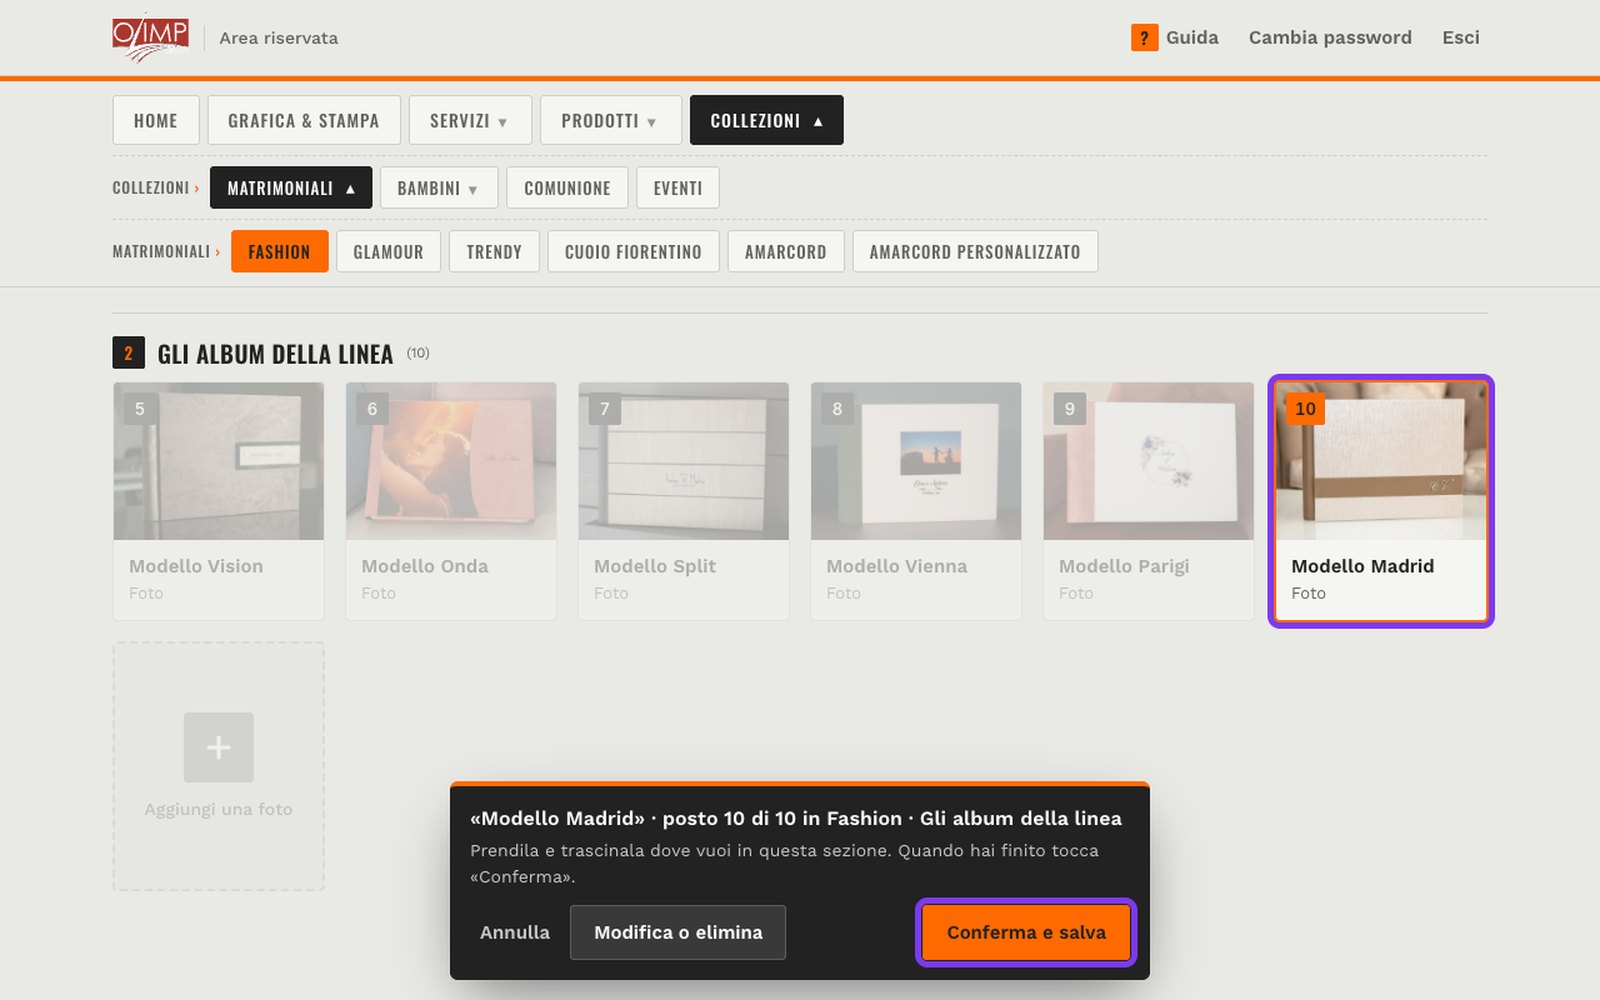
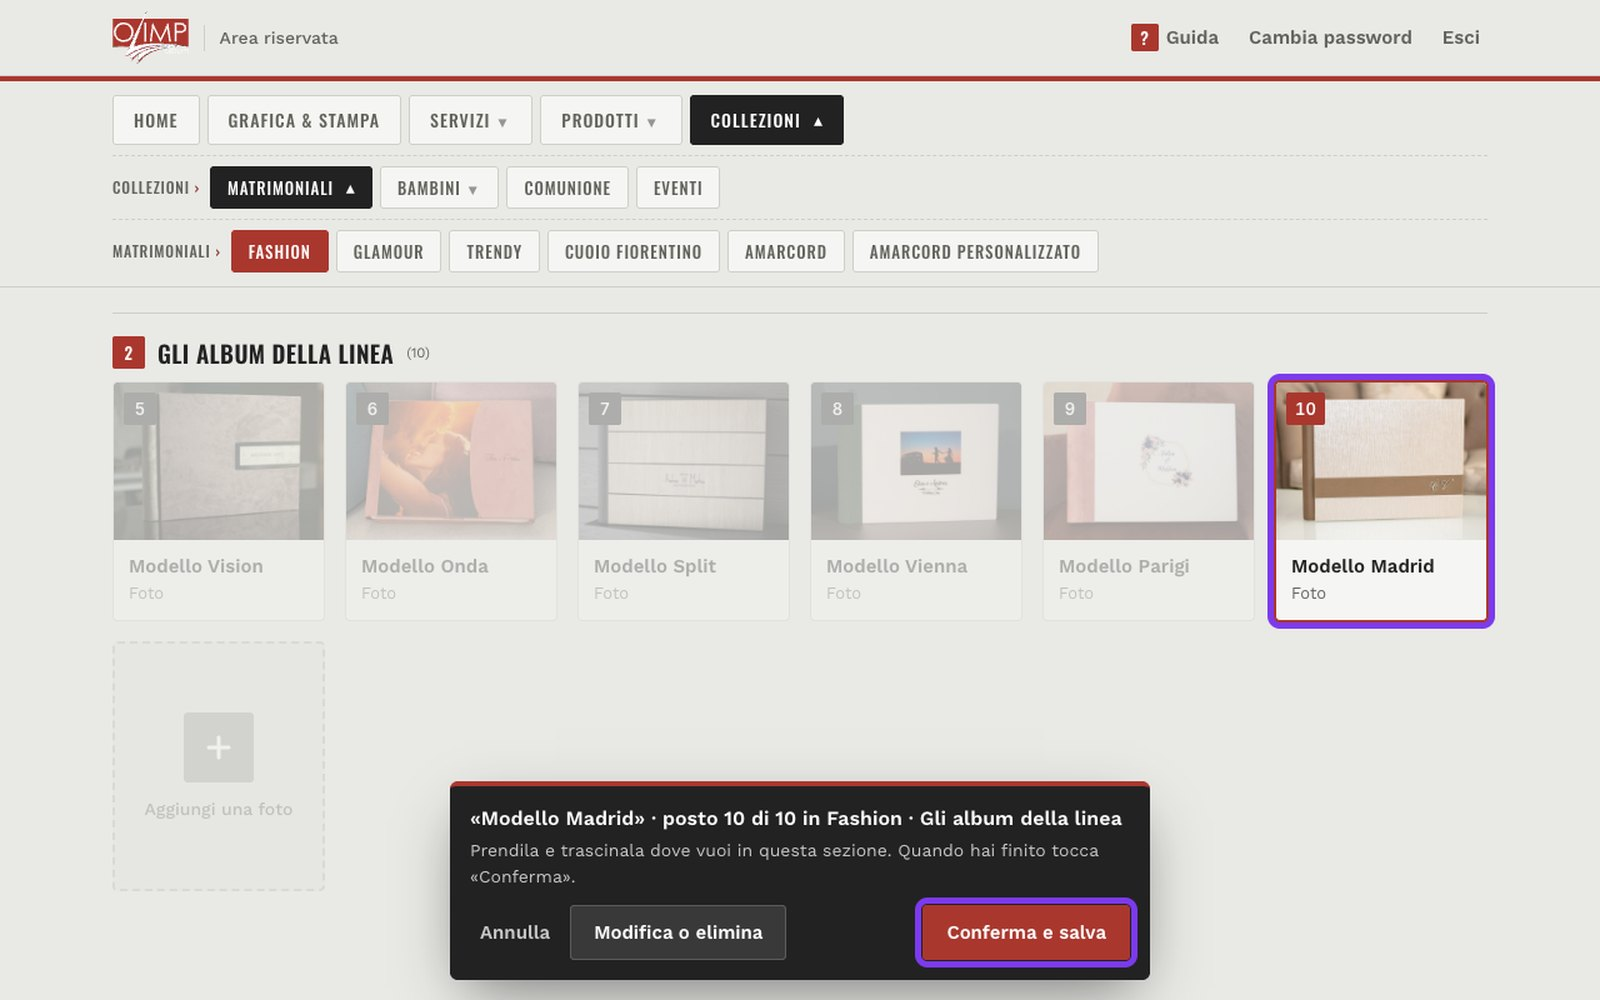
Area riservata: rosso bordeaux del sito al posto dell'arancione e schermate della guida rifatte; versione 3.11 nel LEGGIMI

diff --git a/area-riservata.html b/area-riservata.html
@@ -163,7 +163,7 @@ body.selezione .blocchi{padding-bottom:220px}
 .posiziona[hidden]{display:none}
 .posiziona.avvisa{animation:avvisa 420ms ease-in-out 3}
 .posiziona.avvisa #sc-annulla,.posiziona.avvisa #sc-ok{animation:avvisa-btn 420ms ease-in-out 3}
-@keyframes avvisa{0%,100%{box-shadow:0 18px 50px -12px rgba(0,0,0,.5),0 0 0 0 rgba(255,106,0,0)}50%{box-shadow:0 18px 50px -12px rgba(0,0,0,.5),0 0 0 8px rgba(255,106,0,.85)}}
+@keyframes avvisa{0%,100%{box-shadow:0 18px 50px -12px rgba(0,0,0,.5),0 0 0 0 rgba(170,55,46,0)}50%{box-shadow:0 18px 50px -12px rgba(0,0,0,.5),0 0 0 8px rgba(170,55,46,.85)}}
 @keyframes avvisa-btn{0%,100%{transform:none}50%{transform:scale(1.07)}}
 body.avvisata #sc-p{color:#fff;font-weight:600}
 body.bloccata.selezione .card:not(.scelta),body.bloccata .aggiungi button,body.bloccata .tab{cursor:not-allowed}
@@ -223,12 +223,12 @@ dialog h2{font:700 21px/1.2 var(--head);margin-bottom:14px}
 
 @media (prefers-reduced-motion:reduce){*,*::before,*::after{animation:none!important;transition-property:opacity,background-color,color!important}}
 /* ================= STILE «CANTIERE» =================
-   Cemento grigio, nero e arancio di sicurezza; titoli stretti in maiuscolo (Oswald),
-   testo in Work Sans, angoli quasi vivi. L'arancio porta sempre testo scuro sopra
-   (il bianco sull'arancio non si leggerebbe). Il rosso resta solo per errori ed eliminazioni. */
+   Cemento grigio, nero e il rosso bordeaux di Olimp (#aa372e, lo stesso del sito); titoli
+   stretti in maiuscolo (Oswald), testo in Work Sans, angoli quasi vivi. Sul bordeaux il
+   testo è sempre bianco. */
 :root{
   --bg:#e9e9e6; --card:#f5f5f3; --ink:#222; --mute:#62625c; --line:#cfcfca; --paper:#dcdcd7;
-  --acc:#ff6a00; --acc-d:#e65f00; --acc-a:rgba(255,106,0,.45); --acc-0:rgba(255,106,0,0);
+  --acc:#aa372e; --acc-d:#8c2b23; --acc-a:rgba(170,55,46,.45); --acc-0:rgba(170,55,46,0);
   --head:"Oswald","Arial Narrow",Impact,sans-serif; --testo:"Work Sans",Inter,-apple-system,sans-serif;
 }
 body{font-family:var(--testo)}
@@ -242,11 +242,11 @@ body{font-family:var(--testo)}
 .login h1,.pag-head h1,.blocchi h2,.sez-stile h2,dialog h2,.sv h2{font-family:var(--head);font-weight:600;text-transform:uppercase;letter-spacing:.02em}
 .pag-head h1 small,.blocchi h2 small,.sez-stile h2 small{text-transform:none;letter-spacing:0;font-family:var(--testo)}
 .btn{border-radius:3px;font-weight:600}
-.btn.pri{background:var(--acc);border-color:var(--acc);color:var(--ink)}
+.btn.pri{background:var(--acc);border-color:var(--acc);color:#fff}
 @media (hover:hover) and (pointer:fine){.btn.pri:hover{background:var(--acc-d);border-color:var(--acc-d)}}
 input[type=text],input[type=password]{border-radius:3px;background:#fff;border-color:#b9b9b3}
 .tab{border-radius:3px;font:500 14px/1 var(--head);text-transform:uppercase;letter-spacing:.07em}
-.tab[aria-selected="true"]{background:var(--ink);border-color:var(--ink);color:var(--acc)}
+.tab[aria-selected="true"]{background:var(--acc);border-color:var(--acc);color:#fff}
 /* menu a livelli come la navbar del sito: Collezioni → Matrimoniali → Fashion */
 .tabs .wrap{display:block;overflow:visible;padding:8px 0}
 .tabs .riga{display:flex;align-items:center;flex-wrap:wrap;gap:6px;padding:3px 0}
@@ -259,23 +259,23 @@ input[type=text],input[type=password]{border-radius:3px;background:#fff;border-c
 .tab.aperta{background:var(--ink);border-color:var(--ink);color:#fff}
 .tab.aperta .giu,.tab[aria-selected="true"] .giu{transform:rotate(180deg);opacity:1}
 .tabs .riga.sotto .tab{min-height:34px;padding:0 13px;font-size:13px}
-.tabs .riga.sotto .tab[aria-selected="true"]{background:var(--acc);border-color:var(--acc);color:var(--ink)}
+.tabs .riga.sotto .tab[aria-selected="true"]{background:var(--acc);border-color:var(--acc);color:#fff}
 .tabs .riga.sotto .tab.aperta{background:var(--ink);border-color:var(--ink);color:#fff}
 .vedi{color:var(--ink);text-decoration:underline;text-decoration-color:var(--acc);text-decoration-thickness:2px;text-underline-offset:4px}
-.num{border-radius:2px;background:var(--ink);color:var(--acc);font-family:var(--head)}
+.num{border-radius:2px;background:var(--acc);color:#fff;font-family:var(--head)}
 .slot{border-radius:4px}
 .slot .ph,.anteprima{border-radius:3px}
 .card{border-radius:4px}
 .card .n{border-radius:2px;box-shadow:none;background:var(--ink);color:#fff}
 .card.scelta{border-color:var(--acc);box-shadow:0 0 0 3px var(--acc);animation-name:lampeggia-c}
-.card.scelta .n{background:var(--acc);color:var(--ink)}
+.card.scelta .n{background:var(--acc);color:#fff}
 @keyframes lampeggia-c{0%,100%{box-shadow:0 0 0 3px var(--acc),0 0 0 0 var(--acc-a)}50%{box-shadow:0 0 0 3px var(--acc),0 0 0 12px var(--acc-0)}}
 @media (prefers-reduced-motion:reduce){.card.scelta{box-shadow:0 0 0 3px var(--acc)}}
 .aggiungi button{border-radius:4px;border-color:#b3b3ad;background:#e0e0dc;color:var(--mute);font-family:var(--testo)}
 .aggiungi .croce{border-radius:3px;background:#9d9d97}
-@media (hover:hover) and (pointer:fine){.aggiungi button:hover{background:#d9d9d4;border-color:var(--ink)}.aggiungi button:hover .croce{background:var(--acc);color:var(--ink)}}
+@media (hover:hover) and (pointer:fine){.aggiungi button:hover{background:#d9d9d4;border-color:var(--ink)}.aggiungi button:hover .croce{background:var(--acc);color:#fff}}
 .posiziona{border-radius:6px;border-top:4px solid var(--acc)}
-.posiziona .btn.pri{background:var(--acc);border-color:var(--acc);color:var(--ink)}
+.posiziona .btn.pri{background:var(--acc);border-color:var(--acc);color:#fff}
 .sv .ico{background:#e0e0dc}
 .sv .barra{border-radius:2px;background:#e0e0dc}
 .sv .barra span{background:var(--acc)}
@@ -283,7 +283,7 @@ input[type=text],input[type=password]{border-radius:3px;background:#fff;border-c
 /* ================= GUIDA ================= */
 .top .guida-btn{margin-left:auto;gap:6px}
 .top .guida-btn+.cambia-pw{margin-left:0}
-.guida-btn .q{display:inline-grid;place-items:center;width:22px;height:22px;border-radius:2px;background:var(--acc);color:var(--ink);font:600 14px/1 var(--head)}
+.guida-btn .q{display:inline-grid;place-items:center;width:22px;height:22px;border-radius:2px;background:var(--acc);color:#fff;font:600 14px/1 var(--head)}
 .cambia-pw .corto{display:none}
 @media (max-width:480px){.cambia-pw .lungo{display:none}.cambia-pw .corto{display:inline}}
 #d-guida{width:min(760px,100% - 24px)}
@@ -316,7 +316,7 @@ input[type=text],input[type=password]{border-radius:3px;background:#fff;border-c
 .zoom-punto{position:absolute;border:4px solid #7c3aed;border-radius:10px;pointer-events:none;animation:punto 1s ease-in-out infinite}
 @keyframes punto{0%,100%{opacity:1;box-shadow:0 0 0 0 rgba(124,58,237,.6)}50%{opacity:.15;box-shadow:0 0 0 14px rgba(124,58,237,0)}}
 @media (prefers-reduced-motion:reduce){.zoom-punto{animation:none}}
-#d-zoom .g-chiudi{position:absolute;top:6px;right:6px;width:44px;height:44px;border-radius:3px;background:var(--acc);color:var(--ink)}
+#d-zoom .g-chiudi{position:absolute;top:6px;right:6px;width:44px;height:44px;border-radius:3px;background:var(--acc);color:#fff}
 @media (max-width:600px){
   .g-passo{grid-template-columns:34px 1fr}
   .g-passo a{grid-column:1/-1;width:min(250px,100%);margin:10px auto 0}
@@ -463,12 +463,12 @@ input[type=text],input[type=password]{border-radius:3px;background:#fff;border-c
       <div class="g-passo"><span class="num">1</span><p>In alto scegli la <b>pagina</b> del sito da modificare, per esempio <b>Collezioni</b>, poi <b>Matrimoniali</b>, poi <b>Fashion</b>.</p><a href="images/guida/tab.jpg" class="g-zoom" data-punti="42.66,8.75,10.55,6.50;12.66,15.88,11.09,5.75;13.98,22.25,7.03,5.75" aria-label="Ingrandisci la schermata"><img src="images/guida/tab.jpg" alt="Il menu delle pagine in alto con Collezioni, Matrimoniali e Fashion evidenziati" width="1600" height="1000" loading="lazy" decoding="async"></a></div>
       <div class="g-passo"><span class="num">2</span><p>Clicca la casella grigia con il <b>+</b>, in fondo alle foto della galleria (per esempio <b>Gli album della linea</b>). Si apre la finestra per scegliere il file: scegli la foto e clicca <b>Apri</b>.</p><a href="images/guida/piu.jpg" class="g-zoom" data-punti="50.16,63.38,14.22,26.50" aria-label="Ingrandisci la schermata"><img src="images/guida/piu.jpg" alt="La casella con il + in fondo alla galleria" width="1600" height="1000" loading="lazy" decoding="async"></a></div>
       <div class="g-passo"><span class="num">3</span><p>Controlla l'anteprima, scrivi il <b>titolo</b> (il nome del modello, che compare sotto la foto) e clicca <b>Aggiungi</b>. Se hai sbagliato foto, clicca <b>Cambia foto</b>.</p><a href="images/guida/nuova.jpg" class="g-zoom" data-punti="33.12,66.88,33.75,7.50;58.13,78.88,8.75,7.00" aria-label="Ingrandisci la schermata"><img src="images/guida/nuova.jpg" alt="La finestra per aggiungere una foto, con il titolo scritto" width="1600" height="1000" loading="lazy" decoding="async"></a></div>
-      <div class="g-passo"><span class="num">4</span><p>La foto nuova lampeggia in arancio. Se vuoi spostarla, <b>tieni premuto il clic sulla foto e trascinala</b> nel posto che preferisci; altrimenti resta ultima. Poi clicca <b>Conferma e salva</b> nella barra in basso.</p><a href="images/guida/nuova-sel.jpg" class="g-zoom" data-punti="79.22,37.38,14.22,25.50;57.19,89.75,13.91,7.00" aria-label="Ingrandisci la schermata"><img src="images/guida/nuova-sel.jpg" alt="La foto nuova evidenziata e il pulsante Conferma e salva" width="1600" height="1000" loading="lazy" decoding="async"></a></div>
+      <div class="g-passo"><span class="num">4</span><p>La foto nuova lampeggia in rosso. Se vuoi spostarla, <b>tieni premuto il clic sulla foto e trascinala</b> nel posto che preferisci; altrimenti resta ultima. Poi clicca <b>Conferma e salva</b> nella barra in basso.</p><a href="images/guida/nuova-sel.jpg" class="g-zoom" data-punti="79.22,37.38,14.22,25.50;57.19,89.75,13.91,7.00" aria-label="Ingrandisci la schermata"><img src="images/guida/nuova-sel.jpg" alt="La foto nuova evidenziata e il pulsante Conferma e salva" width="1600" height="1000" loading="lazy" decoding="async"></a></div>
       <div class="g-passo"><span class="num">5</span><p>Si apre la finestra del salvataggio: aspetta che la barra arrivi in fondo e clicca <b>OK</b>. Il sito si aggiorna da solo entro qualche minuto.</p><a href="images/guida/salvato.jpg" class="g-zoom" data-punti="44.84,60.00,10.31,7.00" aria-label="Ingrandisci la schermata"><img src="images/guida/salvato.jpg" alt="La finestra Salvataggio riuscito correttamente con il pulsante OK" width="1600" height="1000" loading="lazy" decoding="async"></a></div>
     </section>
     <section class="g-sez" id="g-riordinare" aria-labelledby="g-riordinare-t">
       <h3 id="g-riordinare-t">Riordinare le foto</h3>
-      <div class="g-passo"><span class="num">1</span><p>Clicca la foto da spostare: si accende in arancio e le altre diventano più chiare.</p><a href="images/guida/scegli.jpg" class="g-zoom" data-punti="35.62,37.38,14.22,25.50" aria-label="Ingrandisci la schermata"><img src="images/guida/scegli.jpg" alt="Una foto selezionata in arancio, le altre più chiare" width="1600" height="1000" loading="lazy" decoding="async"></a></div>
+      <div class="g-passo"><span class="num">1</span><p>Clicca la foto da spostare: si accende in rosso e le altre diventano più chiare.</p><a href="images/guida/scegli.jpg" class="g-zoom" data-punti="35.62,37.38,14.22,25.50" aria-label="Ingrandisci la schermata"><img src="images/guida/scegli.jpg" alt="Una foto selezionata in arancio, le altre più chiare" width="1600" height="1000" loading="lazy" decoding="async"></a></div>
       <div class="g-passo"><span class="num">2</span><p><b>Tieni premuto il clic sulla foto e trascinala</b> dove vuoi, dentro la stessa galleria. Il numero in alto a sinistra indica il posto. Poi clicca <b>Conferma</b>.</p><a href="images/guida/spostata.jpg" class="g-zoom" data-punti="6.56,37.38,14.22,25.50;61.56,89.75,9.53,7.00" aria-label="Ingrandisci la schermata"><img src="images/guida/spostata.jpg" alt="La foto spostata al posto 1 e il pulsante Conferma" width="1600" height="1000" loading="lazy" decoding="async"></a></div>
       <p class="g-nota">Hai cambiato idea? Clicca <b>Annulla</b> e la foto torna dov'era, senza salvare nulla. Finché non scegli <b>Conferma</b> o <b>Annulla</b> il resto della pagina è bloccato: se clicchi altrove, la barra in basso lampeggia per ricordartelo.</p>
     </section>
